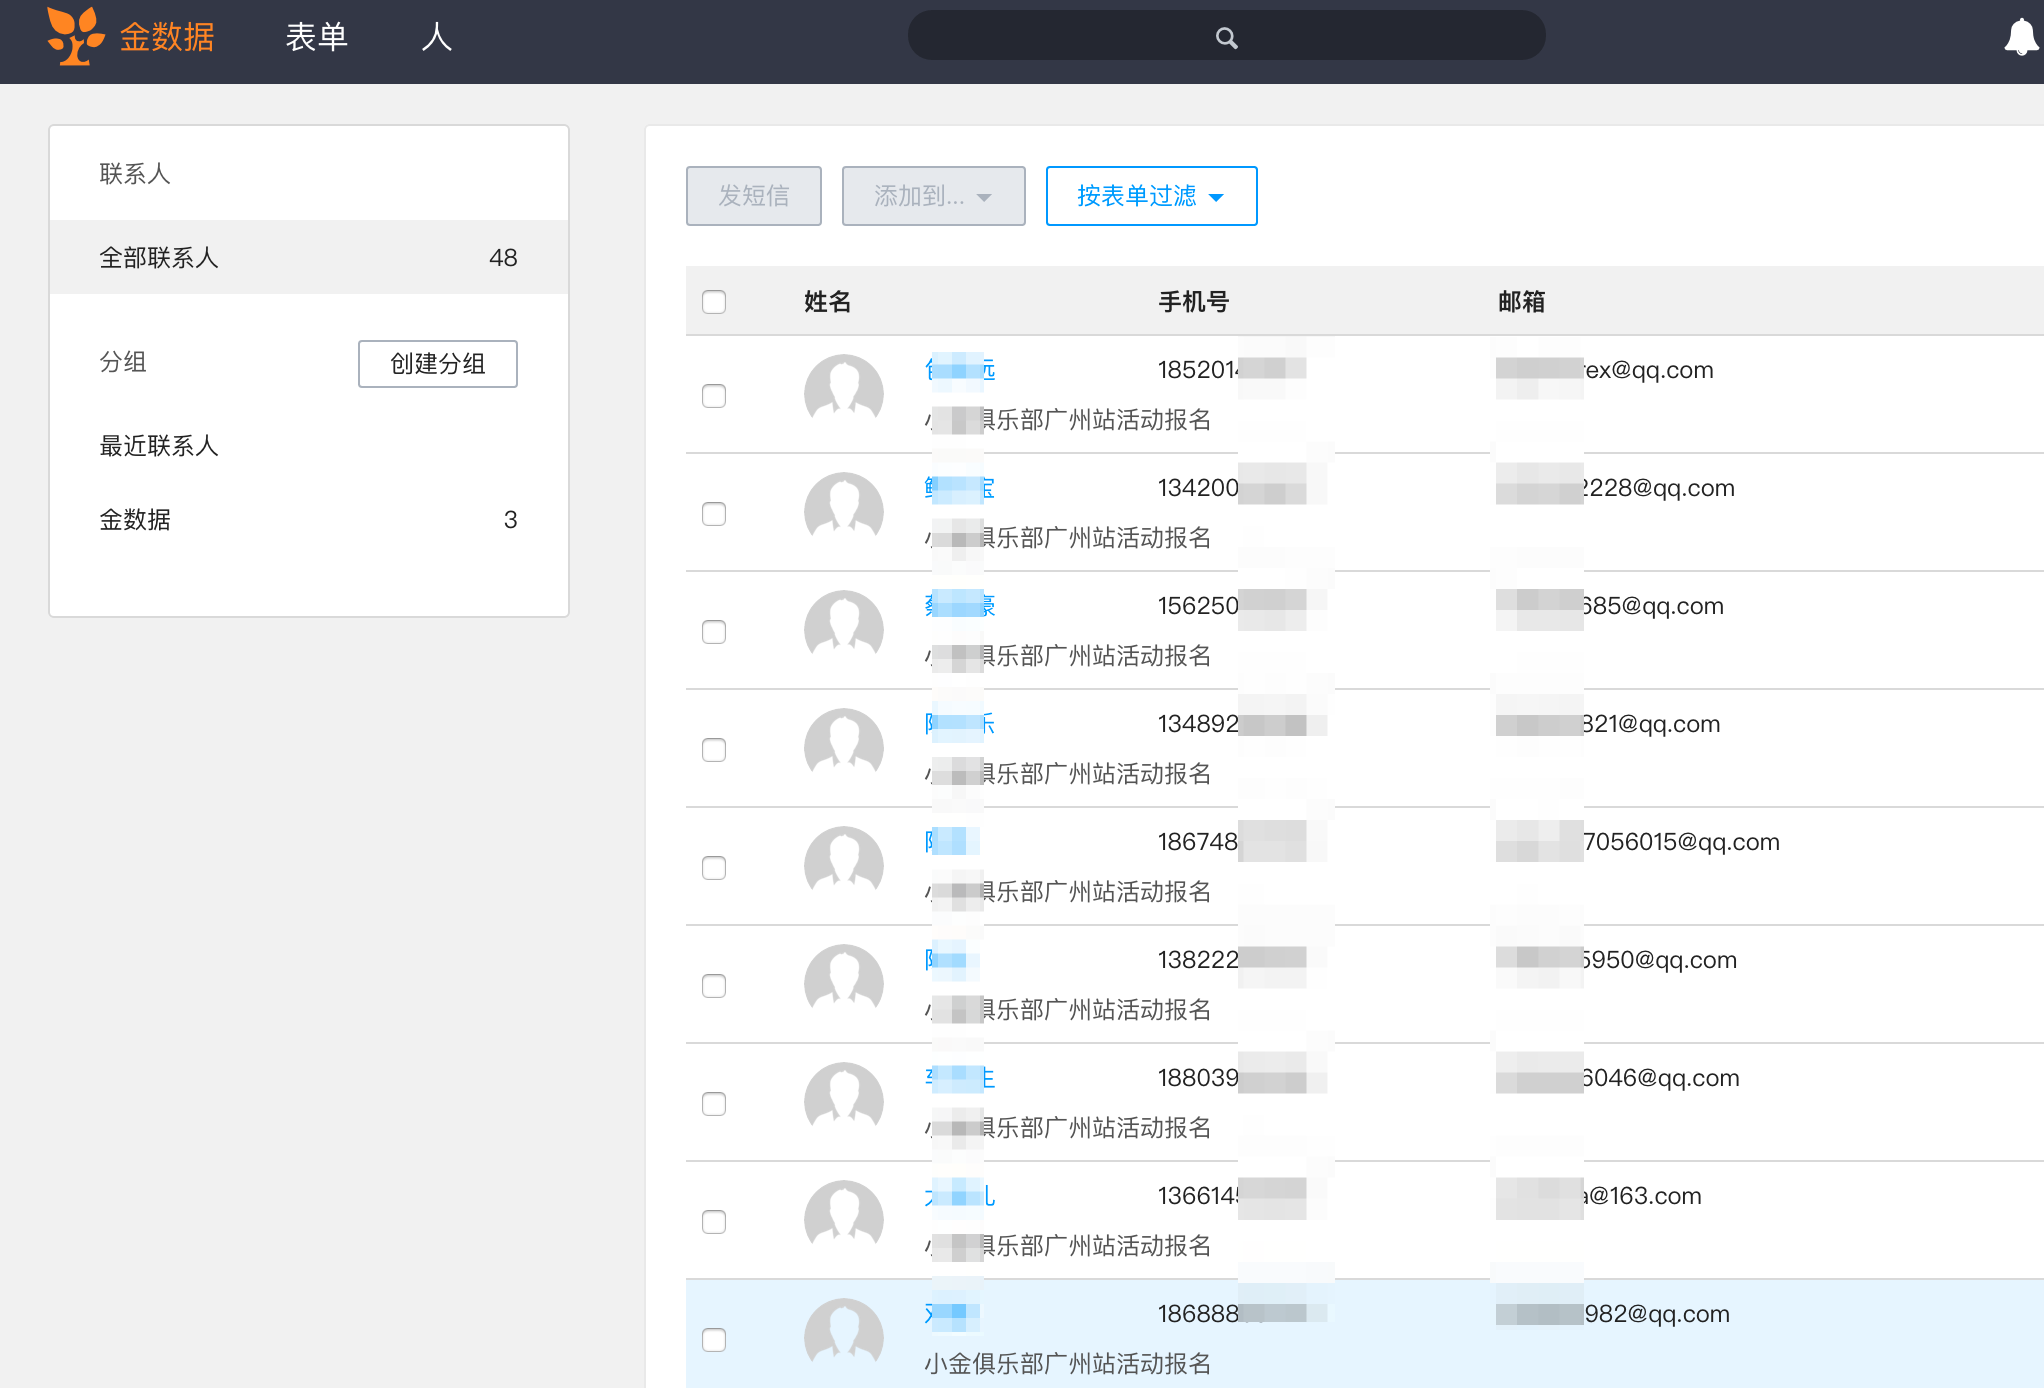
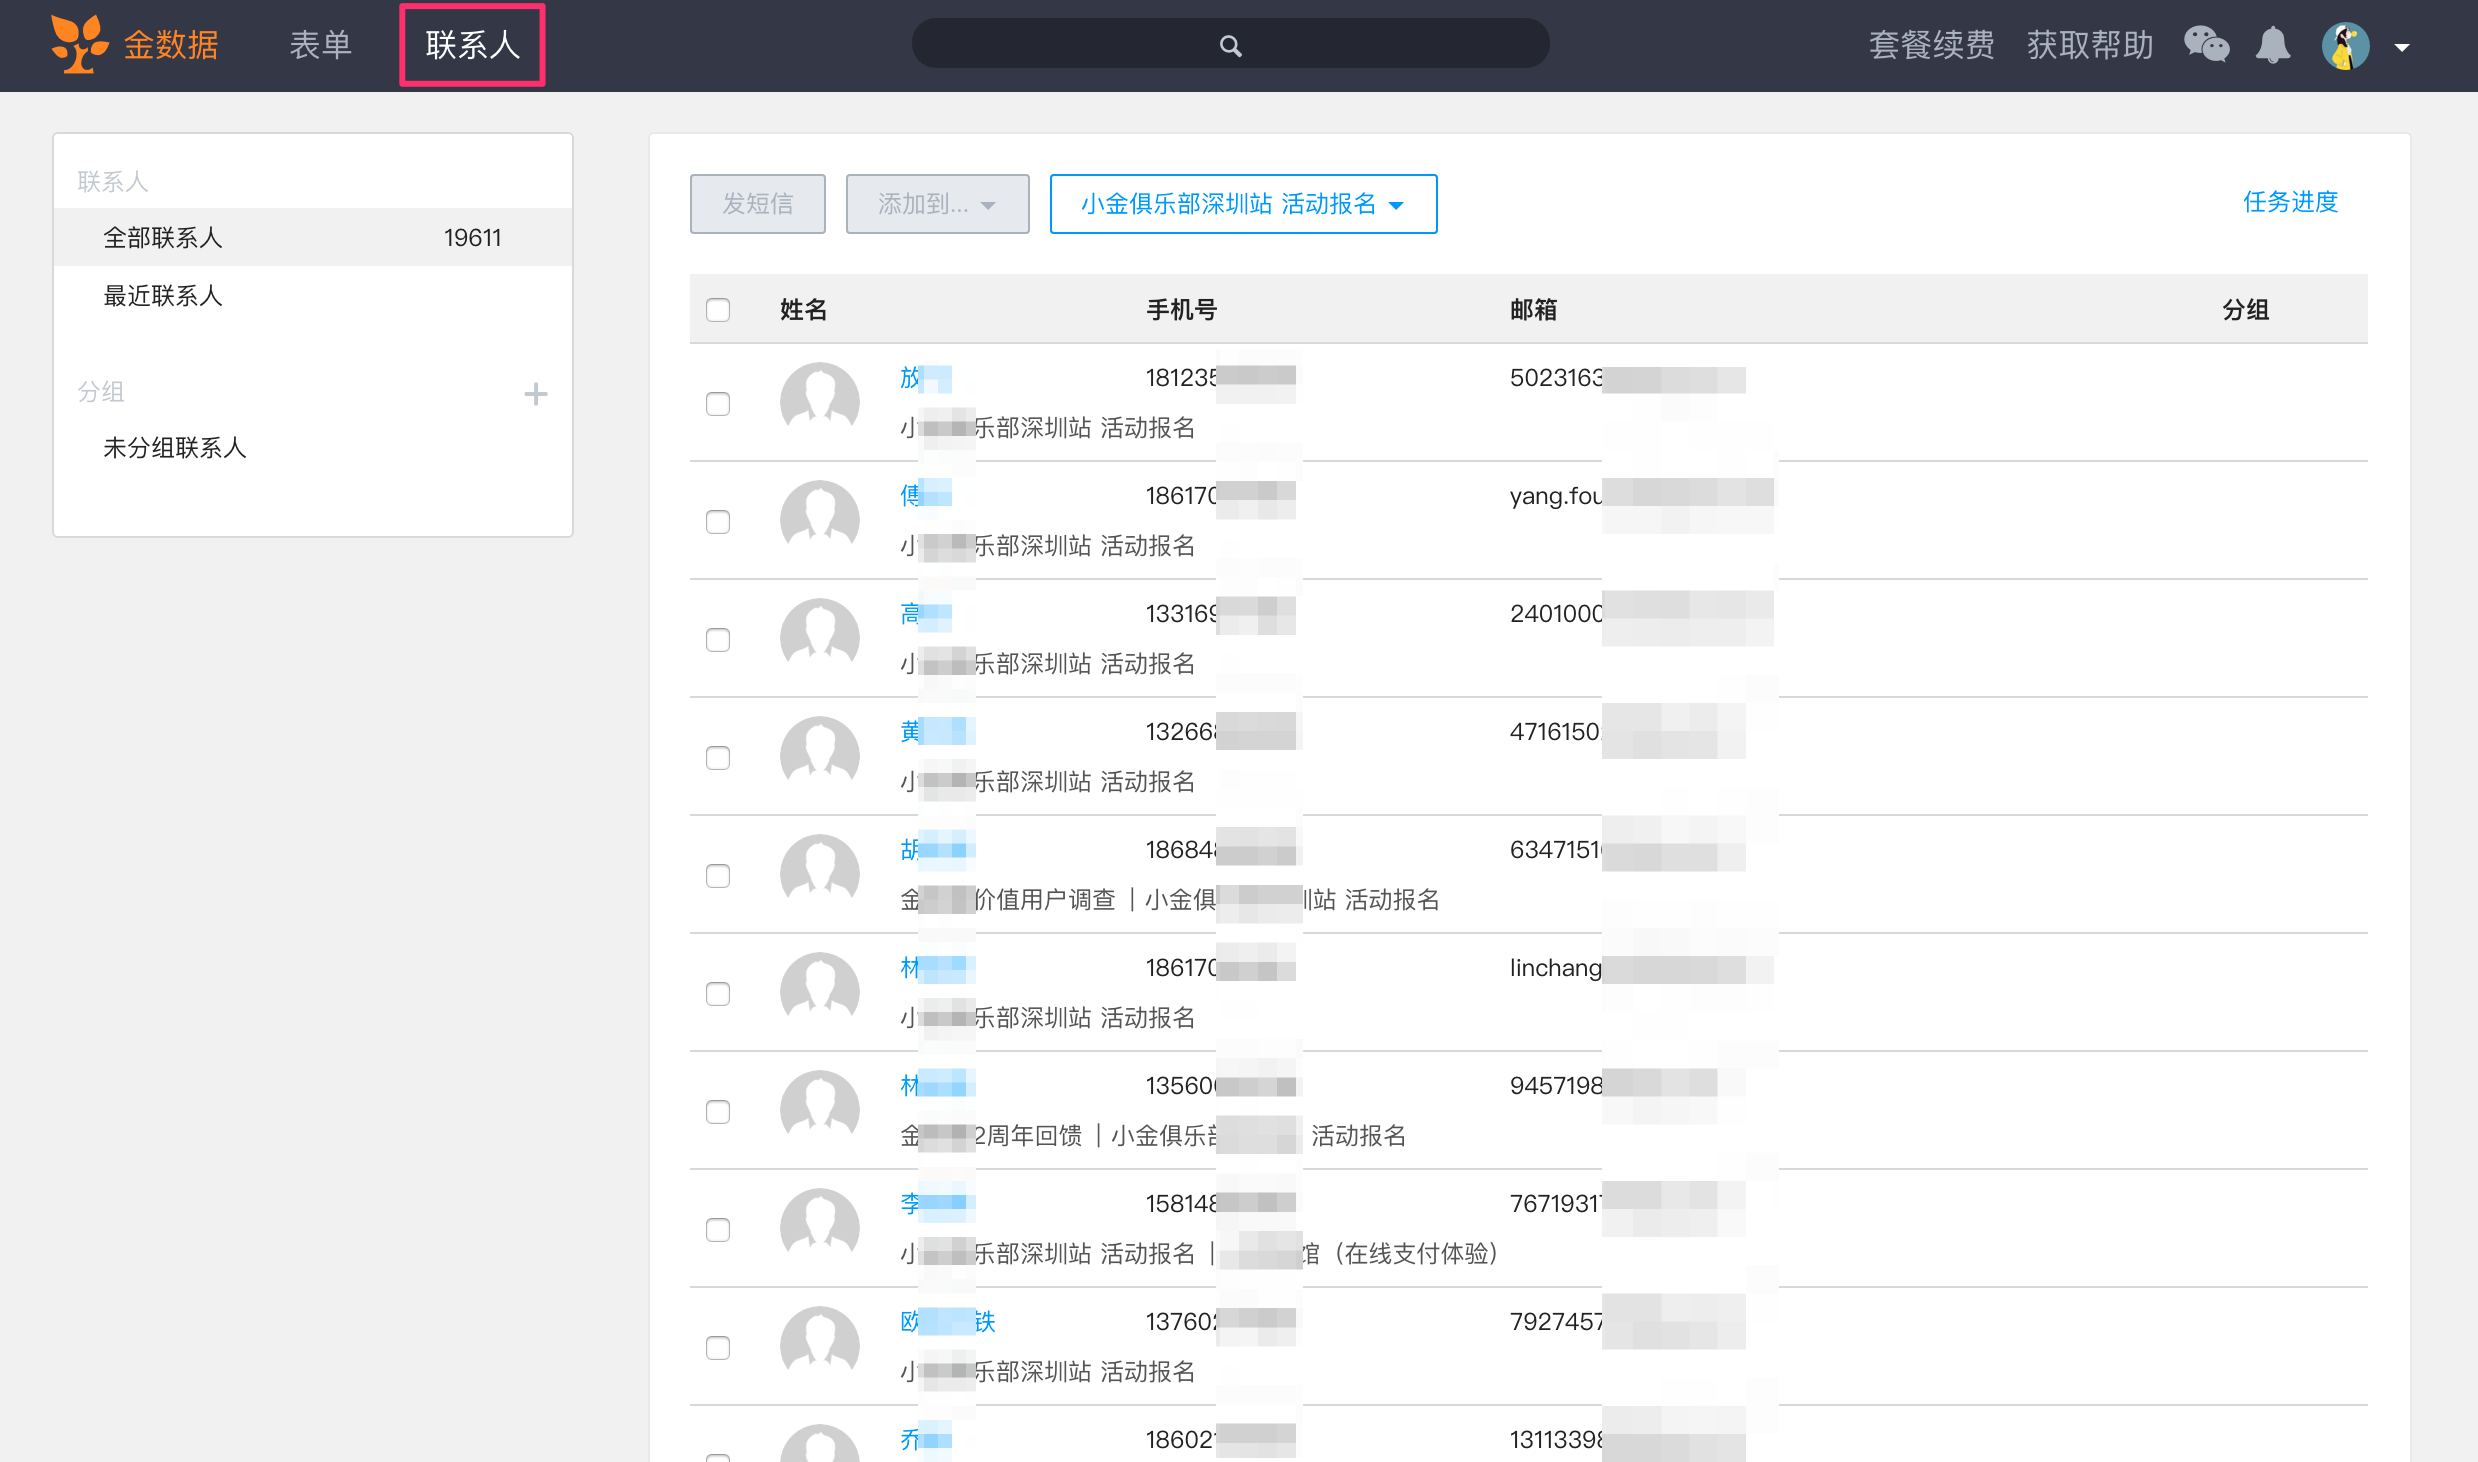
change images

diff --git a/_posts/2014-2-7-people.md b/_posts/2014-2-7-people.md
@@ -1,11 +1,11 @@
 ---
 layout: post
-title:  "人模板简介"
+title:  "联系人模板简介"
 date:   2014-09-29 12:00:14
 category: notification
 ---
 
-"人"功能是金数据3.0版本推出的新功能。您可以通过人模块对您所有表单收集到的所有联系人按分组进行管理。此外，您同时可以分组管理联系人批量为联系人发送短信。
+"联系人"功能是金数据3.0版本推出的新功能。您可以通过联系人模块对您所有表单收集到的所有联系人按分组进行管理。此外，您同时可以分组管理联系人批量为联系人发送短信。
 
 ### 联系人查看
 点击 **人** 后，进入到联系人管理页面，您可以看到您帐户中含有的全部联系人。您也可以按表单以及组查看。

diff --git a/_posts/2014-2-7-initiative-sms.md b/_posts/2014-2-7-initiative-sms.md
@@ -5,11 +5,11 @@ date:   2014-09-29 12:00:14
 category: notification
 ---
 
-主动短信即批量发送短信。您可以在人模块实现批量发送短信，比如，您可以在活动前或者活动结束后为参加活动的用户提前通知及短信致谢。
+主动短信即批量发送短信。您可以在联系人模块实现批量发送短信，比如，您可以在活动前或者活动结束后为参加活动的用户提前通知及短信致谢。
 
 ### 设置步骤
 
-1. 进入**人**模块。
+1. 点击**联系人**，即可进入**联系人**模块。
 	![](/images/initiative-sms-1.png)
 
 2. 筛选出您需要的表单／组联系人。
